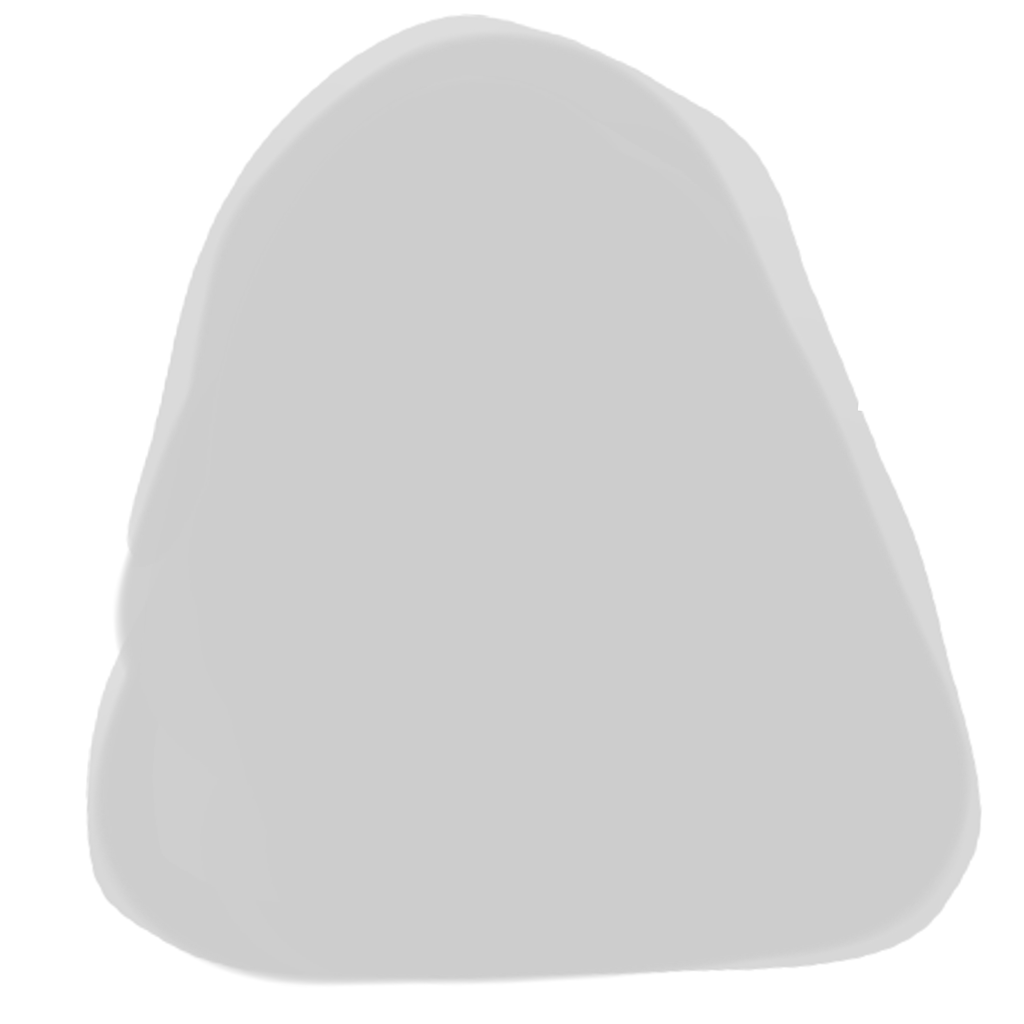
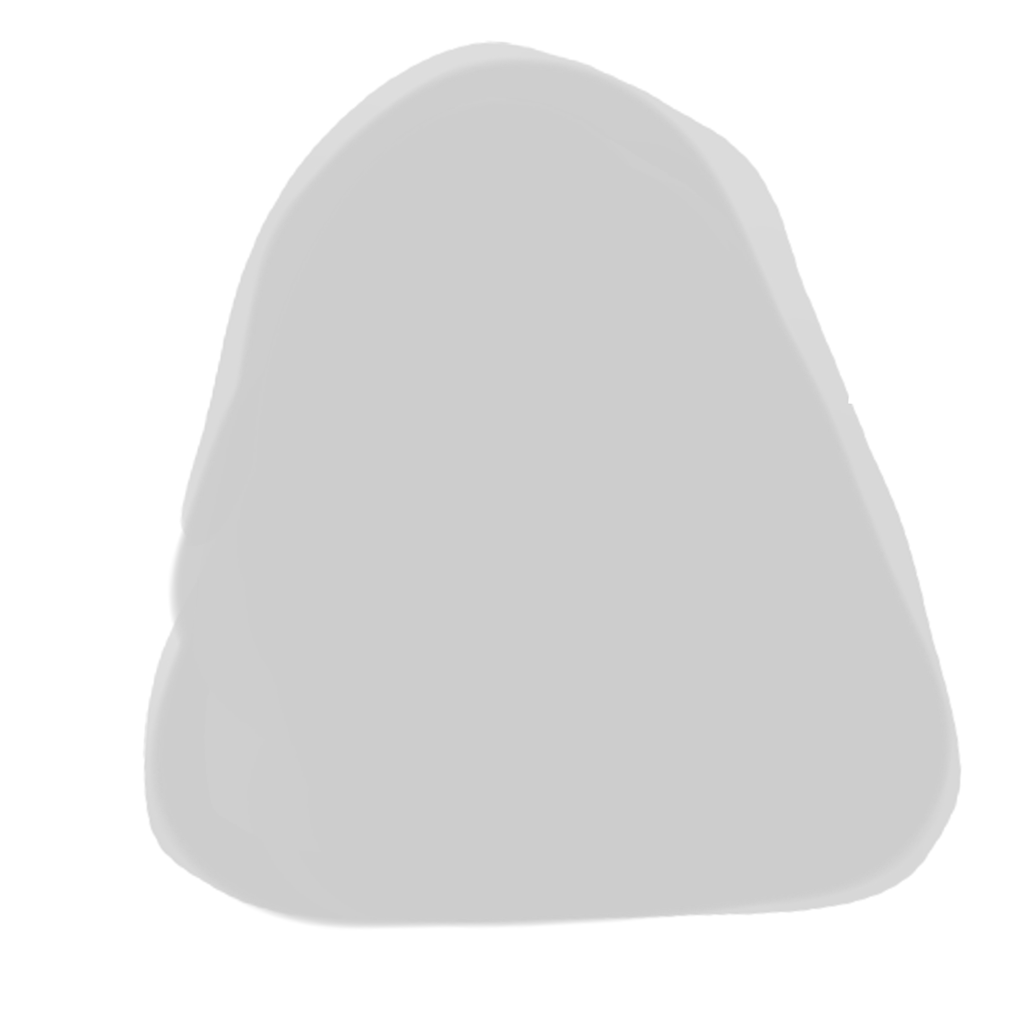
head c and d smaller, add grid selector

diff --git a/src/ui/app.tsx b/src/ui/app.tsx
@@ -4,6 +4,8 @@ import { TypographyH4 } from "./components/ui/typography";
 import AssetSelector from "./components/asset-selector";
 import { AssetType, useStore } from "@/store";
 import { Asset } from "@/lib/assets";
+import { Tabs, TabsContent, TabsList, TabsTrigger } from "@/ui/components/ui/tabs";
+import AssetGridSelector from "./components/asset-grid-selector";
 
 function calculateCanvasDimensions() {
   return {
@@ -45,6 +47,51 @@ export default function App() {
     <div className="flex flex-col items-center gap-y-4 pt-10">
       <canvas id="canvas" data-width={dimensions.width} data-height={dimensions.height} />
       <section>
+        <Tabs defaultValue="head" className="w-[400px]">
+          <TabsList className="flex justify-center">
+            <TabsTrigger value="head">head</TabsTrigger>
+            <TabsTrigger value="eyebrows">eyebrows</TabsTrigger>
+            <TabsTrigger value="eyes">eyes</TabsTrigger>
+            <TabsTrigger value="nose">nose</TabsTrigger>
+            <TabsTrigger value="mouth">mouth</TabsTrigger>
+          </TabsList>
+          <TabsContent value="head">
+            <AssetGridSelector
+              assets={store.assets.head}
+              selected={store.selected.head}
+              onSelect={(asset) => store.setHead(asset as Asset)}
+            />
+          </TabsContent>
+          <TabsContent value="eyebrows">
+            <AssetGridSelector
+              assets={store.assets.eyebrows}
+              selected={store.selected.eyebrows}
+              onSelect={(asset) => store.setEyebrows(asset as Asset)}
+            />
+          </TabsContent>
+          <TabsContent value="eyes">
+            <AssetGridSelector
+              assets={store.assets.eyes}
+              selected={store.selected.eyes}
+              onSelect={(asset) => store.setEyes(asset as Asset)}
+            />
+          </TabsContent>
+          <TabsContent value="nose">
+            <AssetGridSelector
+              assets={store.assets.nose}
+              selected={store.selected.nose}
+              onSelect={(asset) => store.setNose(asset as Asset)}
+            />
+          </TabsContent>
+          <TabsContent value="mouth">
+            <AssetGridSelector
+              assets={store.assets.mouth}
+              selected={store.selected.mouth}
+              onSelect={(asset) => store.setMouth(asset as Asset)}
+            />
+          </TabsContent>
+        </Tabs>
+        {/* 
         <div className="flex flex-col items-center mb-10">
           <TypographyH4 className="mb-2">Head</TypographyH4>
           <AssetSelector items={headItems} onChange={(item) => store.setHead(item.value as Asset)} />
@@ -64,7 +111,7 @@ export default function App() {
         <div className="flex flex-col items-center mb-10">
           <TypographyH4 className="mb-2">Mouth</TypographyH4>
           <AssetSelector items={mouthItems} onChange={(item) => store.setMouth(item.value as Asset)} />
-        </div>
+        </div> */}
       </section>
     </div>
   );

diff --git a/src/ui/components/ui/tabs.tsx b/src/ui/components/ui/tabs.tsx
@@ -1,0 +1,53 @@
+import * as React from "react"
+import * as TabsPrimitive from "@radix-ui/react-tabs"
+
+import { cn } from "@/lib/utils"
+
+const Tabs = TabsPrimitive.Root
+
+const TabsList = React.forwardRef<
+  React.ElementRef<typeof TabsPrimitive.List>,
+  React.ComponentPropsWithoutRef<typeof TabsPrimitive.List>
+>(({ className, ...props }, ref) => (
+  <TabsPrimitive.List
+    ref={ref}
+    className={cn(
+      "inline-flex h-9 items-center justify-center rounded-lg bg-muted p-1 text-muted-foreground",
+      className
+    )}
+    {...props}
+  />
+))
+TabsList.displayName = TabsPrimitive.List.displayName
+
+const TabsTrigger = React.forwardRef<
+  React.ElementRef<typeof TabsPrimitive.Trigger>,
+  React.ComponentPropsWithoutRef<typeof TabsPrimitive.Trigger>
+>(({ className, ...props }, ref) => (
+  <TabsPrimitive.Trigger
+    ref={ref}
+    className={cn(
+      "inline-flex items-center justify-center whitespace-nowrap rounded-md px-3 py-1 text-sm font-medium ring-offset-background transition-all focus-visible:outline-none focus-visible:ring-2 focus-visible:ring-ring focus-visible:ring-offset-2 disabled:pointer-events-none disabled:opacity-50 data-[state=active]:bg-background data-[state=active]:text-foreground data-[state=active]:shadow",
+      className
+    )}
+    {...props}
+  />
+))
+TabsTrigger.displayName = TabsPrimitive.Trigger.displayName
+
+const TabsContent = React.forwardRef<
+  React.ElementRef<typeof TabsPrimitive.Content>,
+  React.ComponentPropsWithoutRef<typeof TabsPrimitive.Content>
+>(({ className, ...props }, ref) => (
+  <TabsPrimitive.Content
+    ref={ref}
+    className={cn(
+      "mt-2 ring-offset-background focus-visible:outline-none focus-visible:ring-2 focus-visible:ring-ring focus-visible:ring-offset-2",
+      className
+    )}
+    {...props}
+  />
+))
+TabsContent.displayName = TabsPrimitive.Content.displayName
+
+export { Tabs, TabsList, TabsTrigger, TabsContent }

diff --git a/src/ui/components/asset-grid-selector.tsx b/src/ui/components/asset-grid-selector.tsx
@@ -1,0 +1,31 @@
+import React from "react";
+import { Asset } from "@/lib/assets";
+import { cn } from "@/lib/utils";
+
+export interface AssetGridSelectorProps {
+  assets: Asset[];
+  selected: Asset;
+  onSelect: (asset: Asset) => void;
+}
+
+export default function AssetGridSelector(props: AssetGridSelectorProps) {
+  const { assets, selected, onSelect } = props;
+
+  function handleSelect(asset: Asset) {
+    onSelect(asset);
+  }
+
+  return (
+    <div className="grid grid-cols-2 gap-4">
+      {assets.map((asset: Asset, ix) => (
+        <div
+          key={ix}
+          className={cn("bg-gray-100 p-4 rounded-lg", asset === selected && "ring-2 ring-primary")}
+          onClick={() => handleSelect(asset)}
+        >
+          <img src={asset.img.src} alt={`Asset item ${ix}`} />
+        </div>
+      ))}
+    </div>
+  );
+}
